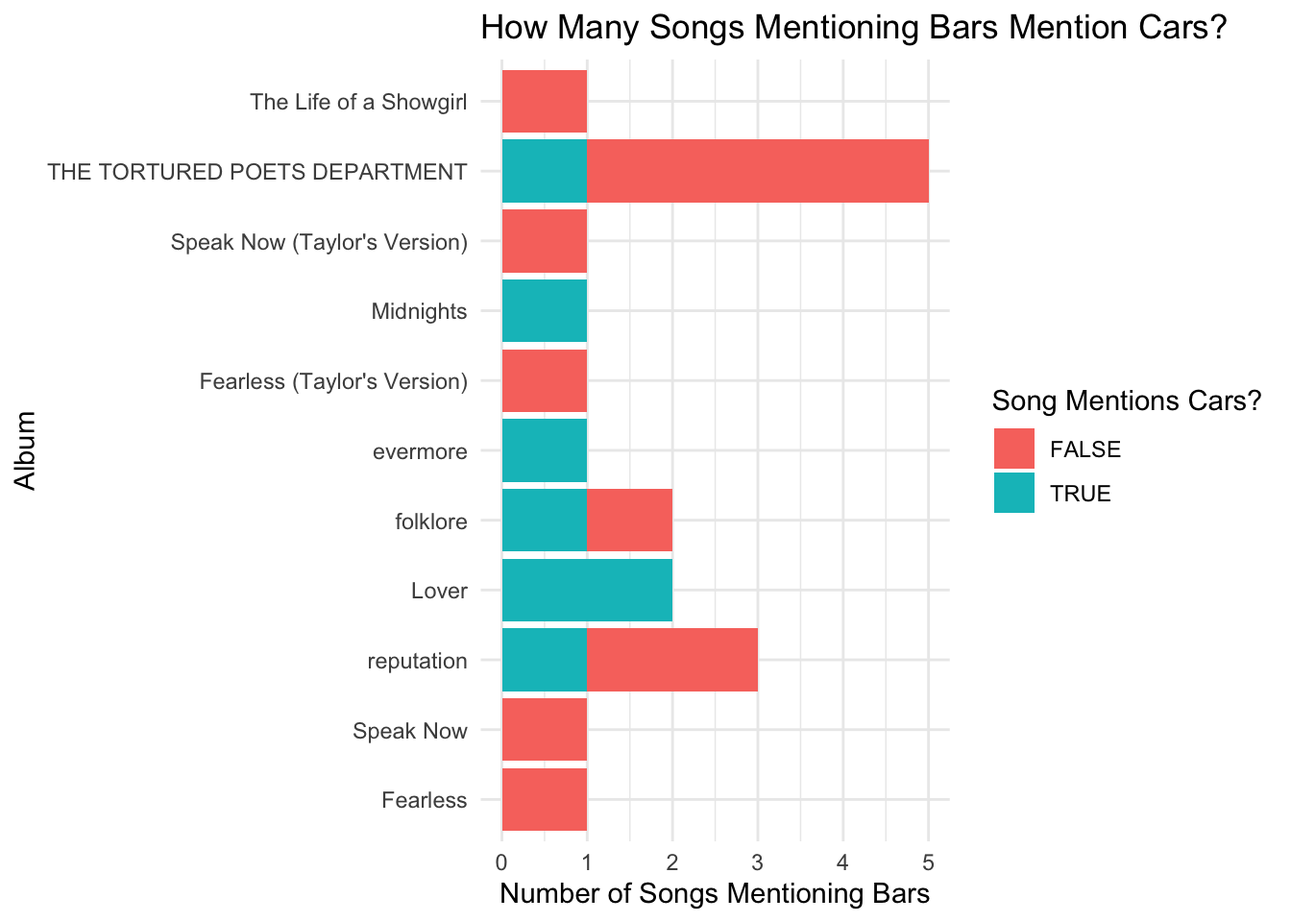
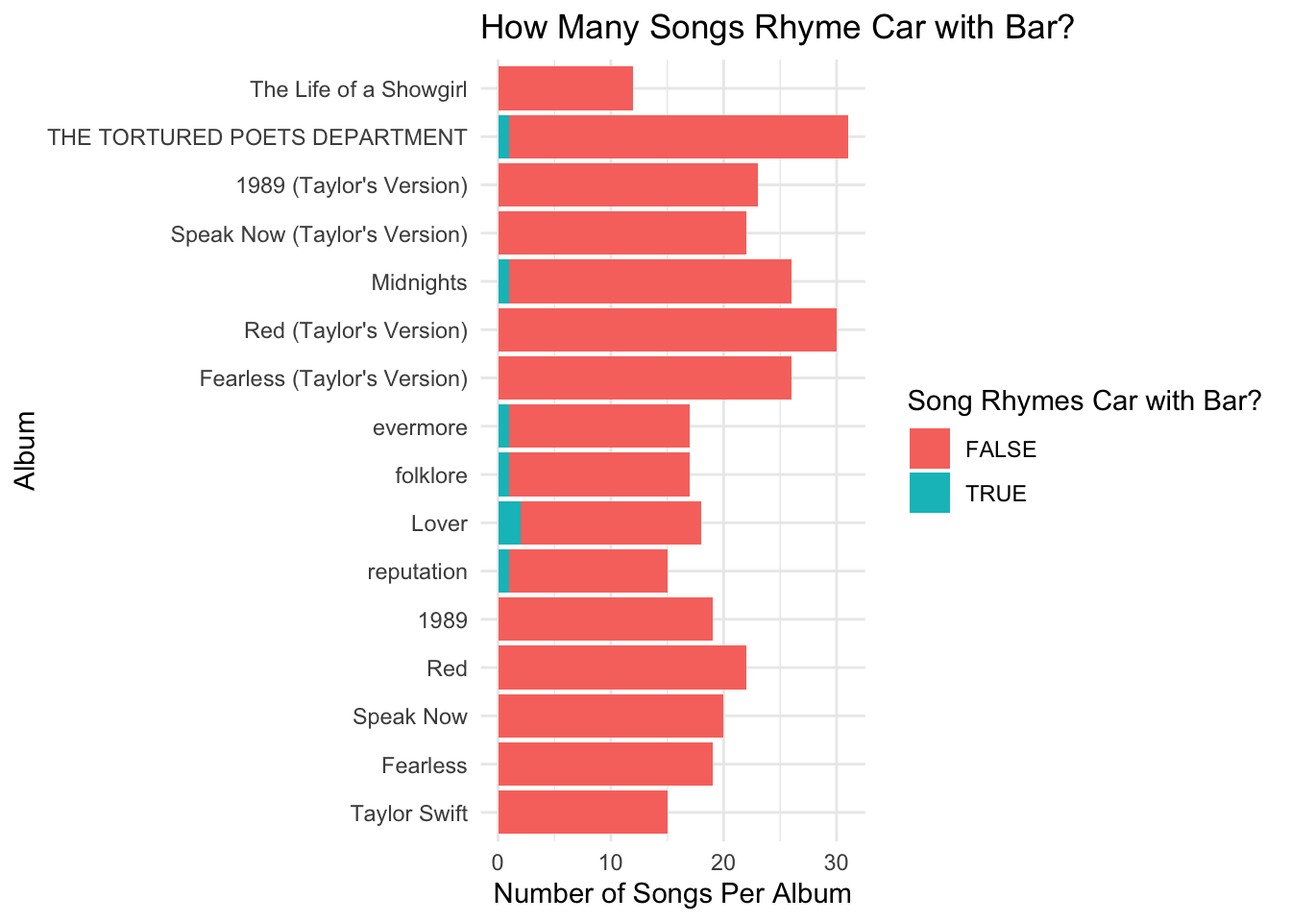
More Project 2 Work

Changed region(s): [[0.0312, 0.0625, 0.7188, 1.0], [0.6875, 0.4062, 0.9688, 0.5625], [0.5938, 0.0, 0.9375, 0.0625]]

diff --git a/docs/about.html b/docs/about.html
@@ -210,16 +210,17 @@ pre > code.sourceCode > span > a:first-child::before { text-decoration: underlin
 <span id="cb2-5"><a href="#cb2-5" aria-hidden="true" tabindex="-1"></a>  <span class="fu">mutate</span>(<span class="at">car_or_bar =</span>  car <span class="sc">|</span> bar)</span></code></pre></div><button title="Copy to Clipboard" class="code-copy-button"><i class="bi"></i></button></div>
 </details>
 </div>
+<p>First, we will determine how frequently Taylor Swift rhymes car with bar per album.</p>
 <div class="cell">
 <details class="code-fold">
 <summary>R Code</summary>
-<div class="code-copy-outer-scaffold"><div class="sourceCode cell-code" id="cb3"><pre class="sourceCode r code-with-copy"><code class="sourceCode r"><span id="cb3-1"><a href="#cb3-1" aria-hidden="true" tabindex="-1"></a><span class="fu">ggplot</span>(<span class="fu">filter</span>(car_bar_data, bar), <span class="fu">aes</span>(<span class="at">x =</span> <span class="fu">fct_relevel</span>(album_name, album_levels), <span class="at">fill =</span> car_bar)) <span class="sc">+</span></span>
+<div class="code-copy-outer-scaffold"><div class="sourceCode cell-code" id="cb3"><pre class="sourceCode r code-with-copy"><code class="sourceCode r"><span id="cb3-1"><a href="#cb3-1" aria-hidden="true" tabindex="-1"></a><span class="fu">ggplot</span>(car_bar_data, <span class="fu">aes</span>(<span class="at">x =</span> <span class="fu">fct_relevel</span>(album_name, album_levels), <span class="at">fill =</span> car_bar)) <span class="sc">+</span></span>
 <span id="cb3-2"><a href="#cb3-2" aria-hidden="true" tabindex="-1"></a><span class="fu">geom_bar</span>() <span class="sc">+</span></span>
 <span id="cb3-3"><a href="#cb3-3" aria-hidden="true" tabindex="-1"></a><span class="fu">labs</span>(</span>
-<span id="cb3-4"><a href="#cb3-4" aria-hidden="true" tabindex="-1"></a><span class="at">title =</span> <span class="st">"How Many Songs Mentioning Bars Mention Cars?"</span>,</span>
+<span id="cb3-4"><a href="#cb3-4" aria-hidden="true" tabindex="-1"></a><span class="at">title =</span> <span class="st">"How Many Songs Rhyme Car with Bar?"</span>,</span>
 <span id="cb3-5"><a href="#cb3-5" aria-hidden="true" tabindex="-1"></a><span class="at">x =</span> <span class="st">"Album"</span>,</span>
-<span id="cb3-6"><a href="#cb3-6" aria-hidden="true" tabindex="-1"></a><span class="at">y =</span> <span class="st">"Number of Songs Mentioning Bars"</span>,</span>
-<span id="cb3-7"><a href="#cb3-7" aria-hidden="true" tabindex="-1"></a><span class="at">fill =</span> <span class="st">"Song Mentions Cars?"</span></span>
+<span id="cb3-6"><a href="#cb3-6" aria-hidden="true" tabindex="-1"></a><span class="at">y =</span> <span class="st">"Number of Songs Per Album"</span>,</span>
+<span id="cb3-7"><a href="#cb3-7" aria-hidden="true" tabindex="-1"></a><span class="at">fill =</span> <span class="st">"Song Rhymes Car with Bar?"</span></span>
 <span id="cb3-8"><a href="#cb3-8" aria-hidden="true" tabindex="-1"></a>)<span class="sc">+</span> <span class="fu">coord_flip</span>() <span class="sc">+</span> <span class="fu">theme_minimal</span>()</span></code></pre></div><button title="Copy to Clipboard" class="code-copy-button"><i class="bi"></i></button></div>
 </details>
 <div class="cell-output-display">
@@ -229,18 +230,47 @@ pre > code.sourceCode > span > a:first-child::before { text-decoration: underlin
 </figure>
 </div>
 </div>
+<details class="code-fold">
+<summary>R Code</summary>
+<div class="code-copy-outer-scaffold"><div class="sourceCode cell-code" id="cb4"><pre class="sourceCode r code-with-copy"><code class="sourceCode r"><span id="cb4-1"><a href="#cb4-1" aria-hidden="true" tabindex="-1"></a><span class="fu">group_by</span>(car_bar_data, album_name) <span class="sc">|&gt;</span> </span>
+<span id="cb4-2"><a href="#cb4-2" aria-hidden="true" tabindex="-1"></a>  <span class="fu">summarize</span>(<span class="at">Percent =</span> <span class="dv">100</span><span class="sc">*</span><span class="fu">sum</span>(car_bar)<span class="sc">/</span><span class="fu">n</span>())</span></code></pre></div><button title="Copy to Clipboard" class="code-copy-button"><i class="bi"></i></button></div>
+</details>
+<div class="cell-output cell-output-stdout">
+<pre><code># A tibble: 16 × 2
+   album_name                    Percent
+   &lt;chr&gt;                           &lt;dbl&gt;
+ 1 1989                             0   
+ 2 1989 (Taylor's Version)          0   
+ 3 Fearless                         0   
+ 4 Fearless (Taylor's Version)      0   
+ 5 Lover                           11.1 
+ 6 Midnights                        3.85
+ 7 Red                              0   
+ 8 Red (Taylor's Version)           0   
+ 9 Speak Now                        0   
+10 Speak Now (Taylor's Version)     0   
+11 THE TORTURED POETS DEPARTMENT    3.23
+12 Taylor Swift                     0   
+13 The Life of a Showgirl           0   
+14 evermore                         5.88
+15 folklore                         5.88
+16 reputation                       6.67</code></pre>
 </div>
+</div>
+<p>This graph and table suggest that in the vast majority of her songs, Taylor Swift actually does not rhyme car with bar. In fact, even in her album Lover, which has the most instances of songs where Taylor rhymes car with bar, only 11.1 percent of the songs contain a car-bar rhyme. This seems to be enough evidence to dispute the claim that Taylor Swift is constantly rhyming car with bar</p>
+<p>However, one might still be interested in how frequently bar and car are used as lyrics if they are not being rhymed with each other. The following plots show the number of songs that mentioned either cars or bars in each album, and for each plot, it shows how manyof those songs used car or bar as a rhyme for the word we are examining.</p>
+<p>This first plot ony considers songs where Taylor Swift mentions cars, and the bars are filled in to show how many of these songs use car as a rhyme for bar.</p>
 <div class="cell">
 <details class="code-fold">
 <summary>R Code</summary>
-<div class="code-copy-outer-scaffold"><div class="sourceCode cell-code" id="cb4"><pre class="sourceCode r code-with-copy"><code class="sourceCode r"><span id="cb4-1"><a href="#cb4-1" aria-hidden="true" tabindex="-1"></a><span class="fu">ggplot</span>(<span class="fu">filter</span>(car_bar_data, car), <span class="fu">aes</span>(<span class="at">x =</span> <span class="fu">fct_relevel</span>(album_name, album_levels), <span class="at">fill =</span> car_bar)) <span class="sc">+</span></span>
-<span id="cb4-2"><a href="#cb4-2" aria-hidden="true" tabindex="-1"></a><span class="fu">geom_bar</span>() <span class="sc">+</span></span>
-<span id="cb4-3"><a href="#cb4-3" aria-hidden="true" tabindex="-1"></a><span class="fu">labs</span>(</span>
-<span id="cb4-4"><a href="#cb4-4" aria-hidden="true" tabindex="-1"></a><span class="at">title =</span> <span class="st">"How Many Songs Mentioning Cars also Mention Bars?"</span>,</span>
-<span id="cb4-5"><a href="#cb4-5" aria-hidden="true" tabindex="-1"></a><span class="at">x =</span> <span class="st">"Album"</span>,</span>
-<span id="cb4-6"><a href="#cb4-6" aria-hidden="true" tabindex="-1"></a><span class="at">y =</span> <span class="st">"Number of Songs Mentioning Cars"</span>,</span>
-<span id="cb4-7"><a href="#cb4-7" aria-hidden="true" tabindex="-1"></a><span class="at">fill =</span> <span class="st">"Song Mentions Bars?"</span></span>
-<span id="cb4-8"><a href="#cb4-8" aria-hidden="true" tabindex="-1"></a>)<span class="sc">+</span> <span class="fu">coord_flip</span>() <span class="sc">+</span> <span class="fu">theme_minimal</span>()</span></code></pre></div><button title="Copy to Clipboard" class="code-copy-button"><i class="bi"></i></button></div>
+<div class="code-copy-outer-scaffold"><div class="sourceCode cell-code" id="cb6"><pre class="sourceCode r code-with-copy"><code class="sourceCode r"><span id="cb6-1"><a href="#cb6-1" aria-hidden="true" tabindex="-1"></a><span class="fu">ggplot</span>(<span class="fu">filter</span>(car_bar_data, car), <span class="fu">aes</span>(<span class="at">x =</span> <span class="fu">fct_relevel</span>(album_name, album_levels), <span class="at">fill =</span> car_bar)) <span class="sc">+</span></span>
+<span id="cb6-2"><a href="#cb6-2" aria-hidden="true" tabindex="-1"></a><span class="fu">geom_bar</span>() <span class="sc">+</span></span>
+<span id="cb6-3"><a href="#cb6-3" aria-hidden="true" tabindex="-1"></a><span class="fu">labs</span>(</span>
+<span id="cb6-4"><a href="#cb6-4" aria-hidden="true" tabindex="-1"></a><span class="at">title =</span> <span class="st">"How Many Songs Mentioning Cars also Mention Bars?"</span>,</span>
+<span id="cb6-5"><a href="#cb6-5" aria-hidden="true" tabindex="-1"></a><span class="at">x =</span> <span class="st">"Album"</span>,</span>
+<span id="cb6-6"><a href="#cb6-6" aria-hidden="true" tabindex="-1"></a><span class="at">y =</span> <span class="st">"Number of Songs Mentioning Cars"</span>,</span>
+<span id="cb6-7"><a href="#cb6-7" aria-hidden="true" tabindex="-1"></a><span class="at">fill =</span> <span class="st">"Song Mentions Bars?"</span></span>
+<span id="cb6-8"><a href="#cb6-8" aria-hidden="true" tabindex="-1"></a>)<span class="sc">+</span> <span class="fu">coord_flip</span>() <span class="sc">+</span> <span class="fu">theme_minimal</span>()</span></code></pre></div><button title="Copy to Clipboard" class="code-copy-button"><i class="bi"></i></button></div>
 </details>
 <div class="cell-output-display">
 <div>
@@ -250,17 +280,19 @@ pre > code.sourceCode > span > a:first-child::before { text-decoration: underlin
 </div>
 </div>
 </div>
+<p>This plot suggests that Taylor frequently mentions cars without feeling the need to rhyme car with bar.</p>
+<p>This second plot ony considers songs where Taylor Swift mentions bars, and the bars are filled in to show how many of these songs use bar as a rhyme for car.</p>
 <div class="cell">
 <details class="code-fold">
 <summary>R Code</summary>
-<div class="code-copy-outer-scaffold"><div class="sourceCode cell-code" id="cb5"><pre class="sourceCode r code-with-copy"><code class="sourceCode r"><span id="cb5-1"><a href="#cb5-1" aria-hidden="true" tabindex="-1"></a><span class="fu">ggplot</span>(car_bar_data, <span class="fu">aes</span>(<span class="at">x =</span> <span class="fu">fct_relevel</span>(album_name, album_levels), <span class="at">fill =</span> car_or_bar)) <span class="sc">+</span></span>
-<span id="cb5-2"><a href="#cb5-2" aria-hidden="true" tabindex="-1"></a><span class="fu">geom_bar</span>() <span class="sc">+</span></span>
-<span id="cb5-3"><a href="#cb5-3" aria-hidden="true" tabindex="-1"></a><span class="fu">labs</span>(</span>
-<span id="cb5-4"><a href="#cb5-4" aria-hidden="true" tabindex="-1"></a><span class="at">title =</span> <span class="st">"How Many Songs Mention Cars or Bars?"</span>,</span>
-<span id="cb5-5"><a href="#cb5-5" aria-hidden="true" tabindex="-1"></a><span class="at">x =</span> <span class="st">"Album"</span>,</span>
-<span id="cb5-6"><a href="#cb5-6" aria-hidden="true" tabindex="-1"></a><span class="at">y =</span> <span class="st">"Number of Songs"</span>,</span>
-<span id="cb5-7"><a href="#cb5-7" aria-hidden="true" tabindex="-1"></a><span class="at">fill =</span> <span class="st">"Song Mentions Cars or Bars?"</span></span>
-<span id="cb5-8"><a href="#cb5-8" aria-hidden="true" tabindex="-1"></a>)<span class="sc">+</span> <span class="fu">coord_flip</span>() <span class="sc">+</span> <span class="fu">theme_minimal</span>()</span></code></pre></div><button title="Copy to Clipboard" class="code-copy-button"><i class="bi"></i></button></div>
+<div class="code-copy-outer-scaffold"><div class="sourceCode cell-code" id="cb7"><pre class="sourceCode r code-with-copy"><code class="sourceCode r"><span id="cb7-1"><a href="#cb7-1" aria-hidden="true" tabindex="-1"></a><span class="fu">ggplot</span>(<span class="fu">filter</span>(car_bar_data, bar), <span class="fu">aes</span>(<span class="at">x =</span> <span class="fu">fct_relevel</span>(album_name, album_levels), <span class="at">fill =</span> car_bar)) <span class="sc">+</span></span>
+<span id="cb7-2"><a href="#cb7-2" aria-hidden="true" tabindex="-1"></a><span class="fu">geom_bar</span>() <span class="sc">+</span></span>
+<span id="cb7-3"><a href="#cb7-3" aria-hidden="true" tabindex="-1"></a><span class="fu">labs</span>(</span>
+<span id="cb7-4"><a href="#cb7-4" aria-hidden="true" tabindex="-1"></a><span class="at">title =</span> <span class="st">"How Many Songs Mentioning Bars Mention Cars?"</span>,</span>
+<span id="cb7-5"><a href="#cb7-5" aria-hidden="true" tabindex="-1"></a><span class="at">x =</span> <span class="st">"Album"</span>,</span>
+<span id="cb7-6"><a href="#cb7-6" aria-hidden="true" tabindex="-1"></a><span class="at">y =</span> <span class="st">"Number of Songs Mentioning Bars"</span>,</span>
+<span id="cb7-7"><a href="#cb7-7" aria-hidden="true" tabindex="-1"></a><span class="at">fill =</span> <span class="st">"Song Mentions Cars?"</span></span>
+<span id="cb7-8"><a href="#cb7-8" aria-hidden="true" tabindex="-1"></a>)<span class="sc">+</span> <span class="fu">coord_flip</span>() <span class="sc">+</span> <span class="fu">theme_minimal</span>()</span></code></pre></div><button title="Copy to Clipboard" class="code-copy-button"><i class="bi"></i></button></div>
 </details>
 <div class="cell-output-display">
 <div>
@@ -270,40 +302,34 @@ pre > code.sourceCode > span > a:first-child::before { text-decoration: underlin
 </div>
 </div>
 </div>
+<p>This plot suggests that there are fewer instances where Taylor mentions bars without also rhyming it with cars than the number of instances where Taylor mentions cars without rhyming it with bars. We can summarize these results:</p>
 <div class="cell">
 <details class="code-fold">
 <summary>R Code</summary>
-<div class="code-copy-outer-scaffold"><div class="sourceCode cell-code" id="cb6"><pre class="sourceCode r code-with-copy"><code class="sourceCode r"><span id="cb6-1"><a href="#cb6-1" aria-hidden="true" tabindex="-1"></a>car_all_data <span class="ot">&lt;-</span> car_bar_data <span class="sc">|&gt;</span></span>
-<span id="cb6-2"><a href="#cb6-2" aria-hidden="true" tabindex="-1"></a>  <span class="fu">mutate</span>(<span class="at">car_not_word =</span> <span class="fu">str_detect</span>(lyrics, <span class="st">"[Cc]ars?"</span>))</span>
-<span id="cb6-3"><a href="#cb6-3" aria-hidden="true" tabindex="-1"></a></span>
-<span id="cb6-4"><a href="#cb6-4" aria-hidden="true" tabindex="-1"></a><span class="fu">ggplot</span>(<span class="fu">filter</span>(car_all_data, car_not_word), <span class="fu">aes</span>(<span class="at">x =</span> <span class="fu">fct_relevel</span>(album_name, album_levels), <span class="at">fill =</span> car)) <span class="sc">+</span></span>
-<span id="cb6-5"><a href="#cb6-5" aria-hidden="true" tabindex="-1"></a><span class="fu">geom_bar</span>() <span class="sc">+</span></span>
-<span id="cb6-6"><a href="#cb6-6" aria-hidden="true" tabindex="-1"></a><span class="fu">labs</span>(</span>
-<span id="cb6-7"><a href="#cb6-7" aria-hidden="true" tabindex="-1"></a><span class="at">title =</span> <span class="st">"How Many Songs with `Car' Mention Cars"</span>,</span>
-<span id="cb6-8"><a href="#cb6-8" aria-hidden="true" tabindex="-1"></a><span class="at">x =</span> <span class="st">"Album"</span>,</span>
-<span id="cb6-9"><a href="#cb6-9" aria-hidden="true" tabindex="-1"></a><span class="at">y =</span> <span class="st">"Number of Songs with 'C/car' or 'C/cars' in the Lyrics"</span>,</span>
-<span id="cb6-10"><a href="#cb6-10" aria-hidden="true" tabindex="-1"></a><span class="at">fill =</span> <span class="st">"Mentions Cars"</span></span>
-<span id="cb6-11"><a href="#cb6-11" aria-hidden="true" tabindex="-1"></a>)<span class="sc">+</span> <span class="fu">coord_flip</span>() <span class="sc">+</span> <span class="fu">theme_minimal</span>()</span></code></pre></div><button title="Copy to Clipboard" class="code-copy-button"><i class="bi"></i></button></div>
+<div class="code-copy-outer-scaffold"><div class="sourceCode cell-code" id="cb8"><pre class="sourceCode r code-with-copy"><code class="sourceCode r"><span id="cb8-1"><a href="#cb8-1" aria-hidden="true" tabindex="-1"></a>  <span class="fu">summarize</span>(car_bar_data, <span class="at">Perc_Car_Bar_Rhymes =</span> <span class="dv">100</span><span class="sc">*</span><span class="fu">sum</span>(car_bar)<span class="sc">/</span><span class="fu">n</span>(), <span class="at">Perc_Bar_Rhymes_Per_Car_Mentions =</span> <span class="dv">100</span><span class="sc">*</span><span class="fu">sum</span>(car_bar)<span class="sc">/</span><span class="fu">sum</span>(car), <span class="at">Perc_Car_Rhymes_Per_Bar_Mentions =</span> <span class="dv">100</span><span class="sc">*</span><span class="fu">sum</span>(car_bar)<span class="sc">/</span><span class="fu">sum</span>(bar), <span class="at">rhymes =</span> <span class="fu">sum</span>(car_bar))</span></code></pre></div><button title="Copy to Clipboard" class="code-copy-button"><i class="bi"></i></button></div>
 </details>
-<div class="cell-output-display">
-<div>
-<figure class="figure">
-<p><img src="about_files/figure-html/unnamed-chunk-6-1.png" class="img-fluid figure-img" width="672"></p>
-</figure>
+<div class="cell-output cell-output-stdout">
+<pre><code># A tibble: 1 × 4
+  Perc_Car_Bar_Rhymes Perc_Bar_Rhymes_Per_Car_Me…¹ Perc_Car_Rhymes_Per_…² rhymes
+                &lt;dbl&gt;                        &lt;dbl&gt;                  &lt;dbl&gt;  &lt;int&gt;
+1                2.11                         15.9                   36.8      7
+# ℹ abbreviated names: ¹Perc_Bar_Rhymes_Per_Car_Mentions,
+#   ²Perc_Car_Rhymes_Per_Bar_Mentions</code></pre>
 </div>
 </div>
-</div>
+<p>This table clearly shows that very few Taylor Swift songs actually feature car-bar rhymes (only 2.11 percent!), or 7 songs in total. It also shows Taylor is less likely to use bar on it’s own. 15.9% of the there time cars are mentioned, they are mentioned as a rhyme with bar, but 36.8% of the time bars are mentioned are they mentioned as a rhyme with car.</p>
+<p>However, I do not believe that repeatedly rhyming cars with bars is initself a problem. Critics usually complain that rhyming cars with bars is indicative of lazy songwriting. Thus, if rhyming cars with bars is truly a valid critique, we would expect songs that rhyme cars with bars to be less musically varied than Taylor’s songs that do not rhyme cars with bars. In the next plot, we will compare the spread of 5 different ratings for Taylor Swift songs that rhyme car with bar, and those that don’t.</p>
 <div class="cell">
 <details class="code-fold">
 <summary>R Code</summary>
-<div class="code-copy-outer-scaffold"><div class="sourceCode cell-code" id="cb7"><pre class="sourceCode r code-with-copy"><code class="sourceCode r"><span id="cb7-1"><a href="#cb7-1" aria-hidden="true" tabindex="-1"></a>longer_car_bar_data <span class="ot">&lt;-</span> car_bar_data <span class="sc">|&gt;</span></span>
-<span id="cb7-2"><a href="#cb7-2" aria-hidden="true" tabindex="-1"></a>  <span class="fu">pivot_longer</span>(<span class="at">cols =</span> <span class="fu">c</span>(danceability, loudness, acousticness, instrumentalness, valence),  <span class="at">names_to =</span> <span class="st">"what_var"</span> , <span class="at">values_to =</span> <span class="st">"what_val"</span>)</span>
-<span id="cb7-3"><a href="#cb7-3" aria-hidden="true" tabindex="-1"></a></span>
-<span id="cb7-4"><a href="#cb7-4" aria-hidden="true" tabindex="-1"></a>longer_car_bar_data <span class="sc">|&gt;</span></span>
-<span id="cb7-5"><a href="#cb7-5" aria-hidden="true" tabindex="-1"></a><span class="fu">ggplot</span>(<span class="fu">aes</span>(<span class="at">x =</span> what_var, <span class="at">y =</span> what_val, <span class="at">color =</span> car_bar)) <span class="sc">+</span></span>
-<span id="cb7-6"><a href="#cb7-6" aria-hidden="true" tabindex="-1"></a>  <span class="fu">geom_boxplot</span>() <span class="sc">+</span> <span class="fu">theme_minimal</span>() <span class="sc">+</span></span>
-<span id="cb7-7"><a href="#cb7-7" aria-hidden="true" tabindex="-1"></a>  <span class="fu">labs</span>(<span class="at">title =</span> <span class="st">"Scores of Songs Rhyming Car with Bar Vs Without"</span>, </span>
-<span id="cb7-8"><a href="#cb7-8" aria-hidden="true" tabindex="-1"></a>  <span class="at">x =</span> <span class="st">"Type of Score"</span>, <span class="at">y =</span> <span class="st">"Score (0-1)"</span>, <span class="at">color =</span> <span class="st">"Song Rhymes Car with Bar"</span>) <span class="sc">+</span> <span class="fu">coord_flip</span>()</span></code></pre></div><button title="Copy to Clipboard" class="code-copy-button"><i class="bi"></i></button></div>
+<div class="code-copy-outer-scaffold"><div class="sourceCode cell-code" id="cb10"><pre class="sourceCode r code-with-copy"><code class="sourceCode r"><span id="cb10-1"><a href="#cb10-1" aria-hidden="true" tabindex="-1"></a>longer_car_bar_data <span class="ot">&lt;-</span> car_bar_data <span class="sc">|&gt;</span></span>
+<span id="cb10-2"><a href="#cb10-2" aria-hidden="true" tabindex="-1"></a>  <span class="fu">pivot_longer</span>(<span class="at">cols =</span> <span class="fu">c</span>(danceability, loudness, acousticness, instrumentalness, valence),  <span class="at">names_to =</span> <span class="st">"what_var"</span> , <span class="at">values_to =</span> <span class="st">"what_val"</span>)</span>
+<span id="cb10-3"><a href="#cb10-3" aria-hidden="true" tabindex="-1"></a></span>
+<span id="cb10-4"><a href="#cb10-4" aria-hidden="true" tabindex="-1"></a>longer_car_bar_data <span class="sc">|&gt;</span></span>
+<span id="cb10-5"><a href="#cb10-5" aria-hidden="true" tabindex="-1"></a><span class="fu">ggplot</span>(<span class="fu">aes</span>(<span class="at">x =</span> what_var, <span class="at">y =</span> what_val, <span class="at">color =</span> car_bar)) <span class="sc">+</span></span>
+<span id="cb10-6"><a href="#cb10-6" aria-hidden="true" tabindex="-1"></a>  <span class="fu">geom_boxplot</span>() <span class="sc">+</span></span>
+<span id="cb10-7"><a href="#cb10-7" aria-hidden="true" tabindex="-1"></a>  <span class="fu">labs</span>(<span class="at">title =</span> <span class="st">"Scores of Songs Rhyming Car with Bar Vs Without"</span>, </span>
+<span id="cb10-8"><a href="#cb10-8" aria-hidden="true" tabindex="-1"></a>  <span class="at">x =</span> <span class="st">"Type of Score"</span>, <span class="at">y =</span> <span class="st">"Score (0-1)"</span>, <span class="at">color =</span> <span class="st">"Song Rhymes Car with Bar"</span>) <span class="sc">+</span> <span class="fu">coord_flip</span>() <span class="sc">+</span> <span class="fu">theme_minimal</span>()</span></code></pre></div><button title="Copy to Clipboard" class="code-copy-button"><i class="bi"></i></button></div>
 </details>
 <div class="cell-output-display">
 <div>
@@ -313,25 +339,27 @@ pre > code.sourceCode > span > a:first-child::before { text-decoration: underlin
 </div>
 </div>
 </div>
+<p>It seems like even for songs where Taylor rhymes car with bar, the songs vary greatly in terms of their danceability, loudness, acousticness, instrumentalness, and valence. Thus, it seems like rhyimg cars with bars is not actually as big of an issue as people claim. Taylor Swift’s songs that rhyme car with bars are just as varied in terms of sound as those that do not rhyme cars with bars.</p>
+<p>Now that we’ve disputed the claim that Taylor Swift’s car-bar rhyming is an issue, I am interested in the other words that Taylor Swift could have rhymed with car. This plot shows the other words that Taylor uses in her songs, and the frequency that they appear in her discography.</p>
 <div class="cell">
 <details class="code-fold">
 <summary>R Code</summary>
-<div class="code-copy-outer-scaffold"><div class="sourceCode cell-code" id="cb8"><pre class="sourceCode r code-with-copy"><code class="sourceCode r"><span id="cb8-1"><a href="#cb8-1" aria-hidden="true" tabindex="-1"></a>how_many_cars_and_bars_data <span class="ot">&lt;-</span> taylor_album_songs <span class="sc">|&gt;</span></span>
-<span id="cb8-2"><a href="#cb8-2" aria-hidden="true" tabindex="-1"></a>  <span class="fu">mutate</span>(<span class="at">how_many_car =</span> <span class="fu">str_count</span>(lyrics, <span class="st">"</span><span class="sc">\\</span><span class="st">b[Cc]ars?</span><span class="sc">\\</span><span class="st">b"</span>)) <span class="sc">|&gt;</span></span>
-<span id="cb8-3"><a href="#cb8-3" aria-hidden="true" tabindex="-1"></a>  <span class="fu">mutate</span>(<span class="at">how_many_bar =</span> <span class="fu">str_count</span>(lyrics, <span class="st">"</span><span class="sc">\\</span><span class="st">b[Bb]ars?</span><span class="sc">\\</span><span class="st">b"</span>)) <span class="sc">|&gt;</span></span>
-<span id="cb8-4"><a href="#cb8-4" aria-hidden="true" tabindex="-1"></a>  <span class="fu">filter</span>(how_many_car <span class="sc">&gt;</span> <span class="dv">0</span> <span class="sc">|</span> how_many_bar <span class="sc">&gt;</span> <span class="dv">0</span>)</span>
-<span id="cb8-5"><a href="#cb8-5" aria-hidden="true" tabindex="-1"></a></span>
-<span id="cb8-6"><a href="#cb8-6" aria-hidden="true" tabindex="-1"></a><span class="co">#I took code from https://stackoverflow.com/a/58309991</span></span>
-<span id="cb8-7"><a href="#cb8-7" aria-hidden="true" tabindex="-1"></a><span class="co"># Posted by Slouei</span></span>
-<span id="cb8-8"><a href="#cb8-8" aria-hidden="true" tabindex="-1"></a><span class="co"># Retrieved 2026-10-14, License - CC BY-SA 4.0</span></span>
-<span id="cb8-9"><a href="#cb8-9" aria-hidden="true" tabindex="-1"></a><span class="co"># To figure out how to make the legend</span></span>
-<span id="cb8-10"><a href="#cb8-10" aria-hidden="true" tabindex="-1"></a></span>
-<span id="cb8-11"><a href="#cb8-11" aria-hidden="true" tabindex="-1"></a><span class="fu">ggplot</span>(how_many_cars_and_bars_data) <span class="sc">+</span></span>
-<span id="cb8-12"><a href="#cb8-12" aria-hidden="true" tabindex="-1"></a>  <span class="fu">geom_point</span>(<span class="fu">aes</span>(<span class="at">x =</span> album_release, <span class="at">y =</span> how_many_car, <span class="at">color =</span> <span class="st">"Car"</span>), <span class="at">position =</span> <span class="fu">position_jitter</span>()) <span class="sc">+</span> <span class="fu">geom_point</span>(<span class="fu">aes</span>(<span class="at">x =</span> album_release, <span class="at">y =</span> how_many_bar, <span class="at">color =</span> <span class="st">"Bar"</span> ), <span class="at">position =</span> <span class="fu">position_jitter</span>())  <span class="sc">+</span></span>
-<span id="cb8-13"><a href="#cb8-13" aria-hidden="true" tabindex="-1"></a><span class="fu">labs</span>(</span>
-<span id="cb8-14"><a href="#cb8-14" aria-hidden="true" tabindex="-1"></a><span class="at">title =</span> <span class="st">"How Many Times Did Songs Mentioning Cars and Bars Mention Cars and Bars?"</span>,</span>
-<span id="cb8-15"><a href="#cb8-15" aria-hidden="true" tabindex="-1"></a><span class="at">x =</span> <span class="st">"Song Release Date"</span>,</span>
-<span id="cb8-16"><a href="#cb8-16" aria-hidden="true" tabindex="-1"></a><span class="at">y =</span> <span class="st">"Number of Car or Bar Mentions in Song"</span>) </span></code></pre></div><button title="Copy to Clipboard" class="code-copy-button"><i class="bi"></i></button></div>
+<div class="code-copy-outer-scaffold"><div class="sourceCode cell-code" id="cb11"><pre class="sourceCode r code-with-copy"><code class="sourceCode r"><span id="cb11-1"><a href="#cb11-1" aria-hidden="true" tabindex="-1"></a>how_many_cars_and_bars_data <span class="ot">&lt;-</span> taylor_album_songs <span class="sc">|&gt;</span></span>
+<span id="cb11-2"><a href="#cb11-2" aria-hidden="true" tabindex="-1"></a>  <span class="fu">mutate</span>(<span class="at">how_many_car =</span> <span class="fu">str_count</span>(lyrics, <span class="st">"</span><span class="sc">\\</span><span class="st">b[Cc]ars?</span><span class="sc">\\</span><span class="st">b"</span>)) <span class="sc">|&gt;</span></span>
+<span id="cb11-3"><a href="#cb11-3" aria-hidden="true" tabindex="-1"></a>  <span class="fu">mutate</span>(<span class="at">how_many_bar =</span> <span class="fu">str_count</span>(lyrics, <span class="st">"</span><span class="sc">\\</span><span class="st">b[Bb]ars?</span><span class="sc">\\</span><span class="st">b"</span>)) <span class="sc">|&gt;</span></span>
+<span id="cb11-4"><a href="#cb11-4" aria-hidden="true" tabindex="-1"></a>  <span class="fu">filter</span>(how_many_car <span class="sc">&gt;</span> <span class="dv">0</span> <span class="sc">|</span> how_many_bar <span class="sc">&gt;</span> <span class="dv">0</span>)</span>
+<span id="cb11-5"><a href="#cb11-5" aria-hidden="true" tabindex="-1"></a></span>
+<span id="cb11-6"><a href="#cb11-6" aria-hidden="true" tabindex="-1"></a><span class="co">#I took code from https://stackoverflow.com/a/58309991</span></span>
+<span id="cb11-7"><a href="#cb11-7" aria-hidden="true" tabindex="-1"></a><span class="co"># Posted by Slouei</span></span>
+<span id="cb11-8"><a href="#cb11-8" aria-hidden="true" tabindex="-1"></a><span class="co"># Retrieved 2026-10-14, License - CC BY-SA 4.0</span></span>
+<span id="cb11-9"><a href="#cb11-9" aria-hidden="true" tabindex="-1"></a><span class="co"># To figure out how to make the legend</span></span>
+<span id="cb11-10"><a href="#cb11-10" aria-hidden="true" tabindex="-1"></a></span>
+<span id="cb11-11"><a href="#cb11-11" aria-hidden="true" tabindex="-1"></a><span class="fu">ggplot</span>(how_many_cars_and_bars_data) <span class="sc">+</span></span>
+<span id="cb11-12"><a href="#cb11-12" aria-hidden="true" tabindex="-1"></a>  <span class="fu">geom_point</span>(<span class="fu">aes</span>(<span class="at">x =</span> album_release, <span class="at">y =</span> how_many_car, <span class="at">color =</span> <span class="st">"Car"</span>), <span class="at">position =</span> <span class="fu">position_jitter</span>()) <span class="sc">+</span> <span class="fu">geom_point</span>(<span class="fu">aes</span>(<span class="at">x =</span> album_release, <span class="at">y =</span> how_many_bar, <span class="at">color =</span> <span class="st">"Bar"</span> ), <span class="at">position =</span> <span class="fu">position_jitter</span>())  <span class="sc">+</span></span>
+<span id="cb11-13"><a href="#cb11-13" aria-hidden="true" tabindex="-1"></a><span class="fu">labs</span>(</span>
+<span id="cb11-14"><a href="#cb11-14" aria-hidden="true" tabindex="-1"></a><span class="at">title =</span> <span class="st">"How Many Times Did Songs Mentioning Cars and Bars Mention Cars and Bars?"</span>,</span>
+<span id="cb11-15"><a href="#cb11-15" aria-hidden="true" tabindex="-1"></a><span class="at">x =</span> <span class="st">"Song Release Date"</span>,</span>
+<span id="cb11-16"><a href="#cb11-16" aria-hidden="true" tabindex="-1"></a><span class="at">y =</span> <span class="st">"Number of Car or Bar Mentions in Song"</span>) <span class="sc">+</span> <span class="fu">theme_minimal</span>()</span></code></pre></div><button title="Copy to Clipboard" class="code-copy-button"><i class="bi"></i></button></div>
 </details>
 <div class="cell-output-display">
 <div>
@@ -340,35 +368,64 @@ pre > code.sourceCode > span > a:first-child::before { text-decoration: underlin
 </figure>
 </div>
 </div>
+<details class="code-fold">
+<summary>R Code</summary>
+<div class="code-copy-outer-scaffold"><div class="sourceCode cell-code" id="cb12"><pre class="sourceCode r code-with-copy"><code class="sourceCode r"><span id="cb12-1"><a href="#cb12-1" aria-hidden="true" tabindex="-1"></a><span class="co">#I had to look up the "unlist()" to make the list of lists into a list with objects</span></span>
+<span id="cb12-2"><a href="#cb12-2" aria-hidden="true" tabindex="-1"></a><span class="co"># Source - https://www.r-bloggers.com/2023/08/the-unlist-function-in-r/</span></span>
+<span id="cb12-3"><a href="#cb12-3" aria-hidden="true" tabindex="-1"></a>all_ars_bad <span class="ot">&lt;-</span> <span class="fu">as.character</span>(taylor_album_songs<span class="sc">$</span>lyrics) <span class="sc">|&gt;</span> <span class="fu">str_extract_all</span>(<span class="st">"</span><span class="sc">\\</span><span class="st">b</span><span class="sc">\\</span><span class="st">w+(?&lt;!e)ars?</span><span class="sc">\\</span><span class="st">b"</span>)</span>
+<span id="cb12-4"><a href="#cb12-4" aria-hidden="true" tabindex="-1"></a></span>
+<span id="cb12-5"><a href="#cb12-5" aria-hidden="true" tabindex="-1"></a>all_ars <span class="ot">&lt;-</span> all_ars_bad <span class="sc">|&gt;</span> <span class="fu">unlist</span>()</span>
+<span id="cb12-6"><a href="#cb12-6" aria-hidden="true" tabindex="-1"></a></span>
+<span id="cb12-7"><a href="#cb12-7" aria-hidden="true" tabindex="-1"></a><span class="co"># I also had to look up a function that would make the list into a data frame</span></span>
+<span id="cb12-8"><a href="#cb12-8" aria-hidden="true" tabindex="-1"></a><span class="co">#source - https://www.geeksforgeeks.org/r-language/how-to-convert-a-list-to-a-dataframe-in-r/</span></span>
+<span id="cb12-9"><a href="#cb12-9" aria-hidden="true" tabindex="-1"></a></span>
+<span id="cb12-10"><a href="#cb12-10" aria-hidden="true" tabindex="-1"></a>all_ars_data <span class="ot">&lt;-</span> <span class="fu">as.data.frame</span>(<span class="fu">list</span>(<span class="at">raw_words =</span> all_ars)) <span class="sc">|&gt;</span></span>
+<span id="cb12-11"><a href="#cb12-11" aria-hidden="true" tabindex="-1"></a>  <span class="fu">mutate</span>(<span class="at">lowercase_ars =</span> <span class="fu">str_to_lower</span>(raw_words)) <span class="sc">|&gt;</span></span>
+<span id="cb12-12"><a href="#cb12-12" aria-hidden="true" tabindex="-1"></a>  <span class="fu">mutate</span>(<span class="at">all_singular_ars =</span> <span class="fu">ifelse</span>(<span class="fu">str_detect</span>(lowercase_ars, <span class="st">"s</span><span class="sc">\\</span><span class="st">b"</span>),<span class="fu">str_sub</span>(lowercase_ars, <span class="dv">1</span>, <span class="fu">str_length</span>(lowercase_ars)<span class="sc">-</span><span class="dv">1</span>), lowercase_ars)) <span class="sc">|&gt;</span></span>
+<span id="cb12-13"><a href="#cb12-13" aria-hidden="true" tabindex="-1"></a>  <span class="fu">group_by</span>(all_singular_ars)<span class="sc">|&gt;</span></span>
+<span id="cb12-14"><a href="#cb12-14" aria-hidden="true" tabindex="-1"></a>  <span class="fu">summarize</span>(<span class="at">ar_counts =</span> <span class="fu">n</span>())</span>
+<span id="cb12-15"><a href="#cb12-15" aria-hidden="true" tabindex="-1"></a></span>
+<span id="cb12-16"><a href="#cb12-16" aria-hidden="true" tabindex="-1"></a></span>
+<span id="cb12-17"><a href="#cb12-17" aria-hidden="true" tabindex="-1"></a><span class="fu">ggplot</span>(all_ars_data, <span class="fu">aes</span>(<span class="at">x =</span> <span class="fu">fct_reorder</span>(all_singular_ars, ar_counts), <span class="at">y =</span> ar_counts)) <span class="sc">+</span></span>
+<span id="cb12-18"><a href="#cb12-18" aria-hidden="true" tabindex="-1"></a><span class="fu">geom_col</span>(<span class="at">fill =</span> <span class="st">"#2aaaa2"</span>) <span class="sc">+</span></span>
+<span id="cb12-19"><a href="#cb12-19" aria-hidden="true" tabindex="-1"></a><span class="fu">labs</span>(</span>
+<span id="cb12-20"><a href="#cb12-20" aria-hidden="true" tabindex="-1"></a><span class="at">title =</span> <span class="st">"Number of Times Words Rhyming with Car are Mentioned"</span>,</span>
+<span id="cb12-21"><a href="#cb12-21" aria-hidden="true" tabindex="-1"></a><span class="at">x =</span> <span class="st">"Lyric"</span>,</span>
+<span id="cb12-22"><a href="#cb12-22" aria-hidden="true" tabindex="-1"></a><span class="at">y =</span> <span class="st">"Number of Mentions"</span></span>
+<span id="cb12-23"><a href="#cb12-23" aria-hidden="true" tabindex="-1"></a>) <span class="sc">+</span> <span class="fu">coord_flip</span>() <span class="sc">+</span> <span class="fu">theme_minimal</span>()</span></code></pre></div><button title="Copy to Clipboard" class="code-copy-button"><i class="bi"></i></button></div>
+</details>
+<div class="cell-output-display">
+<div>
+<figure class="figure">
+<p><img src="about_files/figure-html/unnamed-chunk-8-2.png" class="img-fluid figure-img" width="672"></p>
+</figure>
 </div>
+</div>
+</div>
+<p>Combinatorialists rejoice! Taylor Swift is clearly a fan of stars and bars.</p>
+<p>This plot suggests that out of all words that rhyme with “car,” Taylor Swift does indeed use the word “car” the most frequently. However, she clearly discusses many different car-rhymes.</p>
+<p>I am also curious in how many times Taylor Swift sings words that contain “car” without mentioning car. This plot shows all the words in Taylor Swift lyrics that contain car, and their frequency in her discography.</p>
 <div class="cell">
 <details class="code-fold">
 <summary>R Code</summary>
-<div class="code-copy-outer-scaffold"><div class="sourceCode cell-code" id="cb9"><pre class="sourceCode r code-with-copy"><code class="sourceCode r"><span id="cb9-1"><a href="#cb9-1" aria-hidden="true" tabindex="-1"></a><span class="co">#I had to look up the "unlist()" to make the list of lists into a list with objects</span></span>
-<span id="cb9-2"><a href="#cb9-2" aria-hidden="true" tabindex="-1"></a><span class="co"># Source - https://www.r-bloggers.com/2023/08/the-unlist-function-in-r/</span></span>
-<span id="cb9-3"><a href="#cb9-3" aria-hidden="true" tabindex="-1"></a>all_ars_bad <span class="ot">&lt;-</span> <span class="fu">as.character</span>(taylor_album_songs<span class="sc">$</span>lyrics) <span class="sc">|&gt;</span> <span class="fu">str_extract_all</span>(<span class="st">"</span><span class="sc">\\</span><span class="st">b</span><span class="sc">\\</span><span class="st">w+(?&lt;!e)ars?</span><span class="sc">\\</span><span class="st">b"</span>)</span>
-<span id="cb9-4"><a href="#cb9-4" aria-hidden="true" tabindex="-1"></a></span>
-<span id="cb9-5"><a href="#cb9-5" aria-hidden="true" tabindex="-1"></a>all_ars <span class="ot">&lt;-</span> all_ars_bad <span class="sc">|&gt;</span> <span class="fu">unlist</span>()</span>
-<span id="cb9-6"><a href="#cb9-6" aria-hidden="true" tabindex="-1"></a></span>
-<span id="cb9-7"><a href="#cb9-7" aria-hidden="true" tabindex="-1"></a><span class="co"># I also had to look up a function that would make the list into a data frame</span></span>
-<span id="cb9-8"><a href="#cb9-8" aria-hidden="true" tabindex="-1"></a><span class="co">#source - https://www.geeksforgeeks.org/r-language/how-to-convert-a-list-to-a-dataframe-in-r/</span></span>
-<span id="cb9-9"><a href="#cb9-9" aria-hidden="true" tabindex="-1"></a></span>
-<span id="cb9-10"><a href="#cb9-10" aria-hidden="true" tabindex="-1"></a>all_ars_data <span class="ot">&lt;-</span> <span class="fu">as.data.frame</span>(<span class="fu">list</span>(<span class="at">raw_words =</span> all_ars)) <span class="sc">|&gt;</span></span>
-<span id="cb9-11"><a href="#cb9-11" aria-hidden="true" tabindex="-1"></a>  <span class="fu">mutate</span>(<span class="at">lowercase_ars =</span> <span class="fu">str_to_lower</span>(raw_words)) <span class="sc">|&gt;</span></span>
-<span id="cb9-12"><a href="#cb9-12" aria-hidden="true" tabindex="-1"></a>  <span class="fu">mutate</span>(<span class="at">all_singular_ars =</span> <span class="fu">ifelse</span>(<span class="fu">str_detect</span>(lowercase_ars, <span class="st">"s</span><span class="sc">\\</span><span class="st">b"</span>),<span class="fu">str_sub</span>(lowercase_ars, <span class="dv">1</span>, <span class="fu">str_length</span>(lowercase_ars)<span class="sc">-</span><span class="dv">1</span>), lowercase_ars)) <span class="sc">|&gt;</span></span>
-<span id="cb9-13"><a href="#cb9-13" aria-hidden="true" tabindex="-1"></a>  <span class="fu">group_by</span>(all_singular_ars)<span class="sc">|&gt;</span></span>
-<span id="cb9-14"><a href="#cb9-14" aria-hidden="true" tabindex="-1"></a>  <span class="fu">summarize</span>(<span class="at">ar_counts =</span> <span class="fu">n</span>())</span>
-<span id="cb9-15"><a href="#cb9-15" aria-hidden="true" tabindex="-1"></a></span>
-<span id="cb9-16"><a href="#cb9-16" aria-hidden="true" tabindex="-1"></a></span>
-<span id="cb9-17"><a href="#cb9-17" aria-hidden="true" tabindex="-1"></a></span>
-<span id="cb9-18"><a href="#cb9-18" aria-hidden="true" tabindex="-1"></a></span>
-<span id="cb9-19"><a href="#cb9-19" aria-hidden="true" tabindex="-1"></a><span class="fu">ggplot</span>(all_ars_data, <span class="fu">aes</span>(<span class="at">x =</span> <span class="fu">fct_reorder</span>(all_singular_ars, ar_counts), <span class="at">y =</span> ar_counts)) <span class="sc">+</span></span>
-<span id="cb9-20"><a href="#cb9-20" aria-hidden="true" tabindex="-1"></a><span class="fu">geom_col</span>(<span class="at">fill =</span> <span class="st">"#2aaaa2"</span>) <span class="sc">+</span></span>
-<span id="cb9-21"><a href="#cb9-21" aria-hidden="true" tabindex="-1"></a><span class="fu">labs</span>(</span>
-<span id="cb9-22"><a href="#cb9-22" aria-hidden="true" tabindex="-1"></a><span class="at">title =</span> <span class="st">"Number of Times Words Rhyming with Car are Mentioned"</span>,</span>
-<span id="cb9-23"><a href="#cb9-23" aria-hidden="true" tabindex="-1"></a><span class="at">x =</span> <span class="st">"Lyric"</span>,</span>
-<span id="cb9-24"><a href="#cb9-24" aria-hidden="true" tabindex="-1"></a><span class="at">y =</span> <span class="st">"Number of Mentions"</span></span>
-<span id="cb9-25"><a href="#cb9-25" aria-hidden="true" tabindex="-1"></a>) <span class="sc">+</span> <span class="fu">coord_flip</span>()</span></code></pre></div><button title="Copy to Clipboard" class="code-copy-button"><i class="bi"></i></button></div>
+<div class="code-copy-outer-scaffold"><div class="sourceCode cell-code" id="cb13"><pre class="sourceCode r code-with-copy"><code class="sourceCode r"><span id="cb13-1"><a href="#cb13-1" aria-hidden="true" tabindex="-1"></a>all_car_bad <span class="ot">&lt;-</span> <span class="fu">as.character</span>(taylor_album_songs<span class="sc">$</span>lyrics) <span class="sc">|&gt;</span> <span class="fu">str_extract_all</span>(<span class="st">"</span><span class="sc">\\</span><span class="st">b</span><span class="sc">\\</span><span class="st">w*[Cc]ar</span><span class="sc">\\</span><span class="st">w*</span><span class="sc">\\</span><span class="st">b"</span>)</span>
+<span id="cb13-2"><a href="#cb13-2" aria-hidden="true" tabindex="-1"></a></span>
+<span id="cb13-3"><a href="#cb13-3" aria-hidden="true" tabindex="-1"></a>all_car <span class="ot">&lt;-</span> all_car_bad <span class="sc">|&gt;</span> <span class="fu">unlist</span>()</span>
+<span id="cb13-4"><a href="#cb13-4" aria-hidden="true" tabindex="-1"></a></span>
+<span id="cb13-5"><a href="#cb13-5" aria-hidden="true" tabindex="-1"></a>all_car_data <span class="ot">&lt;-</span> <span class="fu">as.data.frame</span>(<span class="fu">list</span>(<span class="at">raw_car_words =</span> all_car)) <span class="sc">|&gt;</span></span>
+<span id="cb13-6"><a href="#cb13-6" aria-hidden="true" tabindex="-1"></a>  <span class="fu">mutate</span>(<span class="at">lowercase_car =</span> <span class="fu">str_to_lower</span>(raw_car_words)) <span class="sc">|&gt;</span></span>
+<span id="cb13-7"><a href="#cb13-7" aria-hidden="true" tabindex="-1"></a>  <span class="fu">mutate</span>(<span class="at">all_singular_car =</span> <span class="fu">ifelse</span>(<span class="fu">str_detect</span>(lowercase_car, <span class="st">"s</span><span class="sc">\\</span><span class="st">b"</span>),<span class="fu">str_sub</span>(lowercase_car, <span class="dv">1</span>, <span class="fu">str_length</span>(lowercase_car)<span class="sc">-</span><span class="dv">1</span>), lowercase_car)) <span class="sc">|&gt;</span></span>
+<span id="cb13-8"><a href="#cb13-8" aria-hidden="true" tabindex="-1"></a>  <span class="fu">group_by</span>(all_singular_car)<span class="sc">|&gt;</span></span>
+<span id="cb13-9"><a href="#cb13-9" aria-hidden="true" tabindex="-1"></a>  <span class="fu">summarize</span>(<span class="at">car_counts =</span> <span class="fu">n</span>())</span>
+<span id="cb13-10"><a href="#cb13-10" aria-hidden="true" tabindex="-1"></a></span>
+<span id="cb13-11"><a href="#cb13-11" aria-hidden="true" tabindex="-1"></a></span>
+<span id="cb13-12"><a href="#cb13-12" aria-hidden="true" tabindex="-1"></a><span class="fu">ggplot</span>(all_car_data, <span class="fu">aes</span>(<span class="at">x =</span> <span class="fu">fct_reorder</span>(all_singular_car, car_counts), <span class="at">y =</span> car_counts)) <span class="sc">+</span></span>
+<span id="cb13-13"><a href="#cb13-13" aria-hidden="true" tabindex="-1"></a><span class="fu">geom_col</span>(<span class="at">fill =</span> <span class="st">"#2aaaa2"</span>) <span class="sc">+</span></span>
+<span id="cb13-14"><a href="#cb13-14" aria-hidden="true" tabindex="-1"></a><span class="fu">labs</span>(</span>
+<span id="cb13-15"><a href="#cb13-15" aria-hidden="true" tabindex="-1"></a><span class="at">title =</span> <span class="st">"Number of Times Words Contining Car are Mentioned"</span>,</span>
+<span id="cb13-16"><a href="#cb13-16" aria-hidden="true" tabindex="-1"></a><span class="at">x =</span> <span class="st">"Lyric"</span>,</span>
+<span id="cb13-17"><a href="#cb13-17" aria-hidden="true" tabindex="-1"></a><span class="at">y =</span> <span class="st">"Number of Mentions"</span></span>
+<span id="cb13-18"><a href="#cb13-18" aria-hidden="true" tabindex="-1"></a>) <span class="sc">+</span> <span class="fu">coord_flip</span>() <span class="sc">+</span> <span class="fu">theme_minimal</span>()</span></code></pre></div><button title="Copy to Clipboard" class="code-copy-button"><i class="bi"></i></button></div>
 </details>
 <div class="cell-output-display">
 <div>
@@ -378,7 +435,7 @@ pre > code.sourceCode > span > a:first-child::before { text-decoration: underlin
 </div>
 </div>
 </div>
-<p>Combinatorialists rejoice! Taylor Swift is clearly a fan of stars and bars.</p>
+<p>Similar to the previous graph, while this graph does suggest that Taylor really likes the word “car,” she has many different lyrics that contain car, and so she may create rhymes based off of these, as well. For example, in the song “cardigan,” she rhymes “cardigan” with “car again.”</p>
 
 
 
